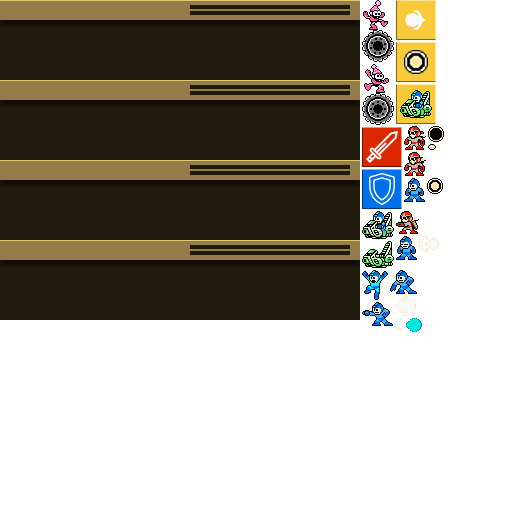
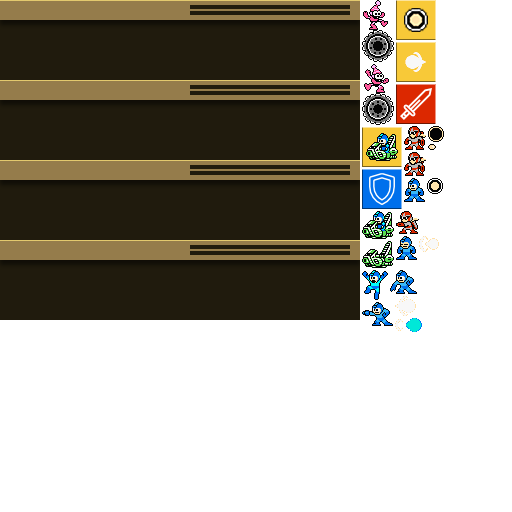
fix scale canvas

Changed region(s): [[0.6875, 0.0938, 0.875, 0.3438], [0.7812, 0.0, 0.8438, 0.0625]]

diff --git a/project_1254/project_1254.js b/project_1254/project_1254.js
@@ -3,7 +3,7 @@
 var p; // shortcut to reference prototypes
 var lib={};var ss={};var img={};
 lib.ssMetadata = [
-		{name:"project_1254_atlas_P_", frames: [[0,0,360,320],[362,64,32,61],[362,0,32,62],[362,127,40,40],[362,169,40,40],[362,211,32,28],[362,241,32,27],[428,144,8,6],[395,318,27,14],[419,236,20,16],[395,296,21,20],[427,178,16,16],[428,126,16,16],[362,270,26,30],[362,302,31,24],[396,0,40,40],[396,42,40,40],[396,84,40,40],[404,178,21,24],[396,236,21,24],[390,270,27,24],[396,211,23,23],[404,126,22,24],[404,152,22,24]]}
+		{name:"project_1254_atlas_P_", frames: [[0,0,360,320],[362,64,32,61],[362,0,32,62],[396,84,40,40],[362,169,40,40],[362,211,32,28],[362,241,32,27],[428,144,8,6],[395,318,27,14],[419,236,20,16],[395,296,21,20],[427,178,16,16],[428,126,16,16],[362,270,26,30],[362,302,31,24],[396,42,40,40],[396,0,40,40],[362,127,40,40],[404,178,21,24],[396,236,21,24],[390,270,27,24],[396,211,23,23],[404,126,22,24],[404,152,22,24]]}
 ];
 
 
@@ -1643,8 +1643,8 @@ lib.properties = {
 	color: "#CCCCCC",
 	opacity: 1.00,
 	manifest: [
-		{src:"images/bg01.jpg?1540744385041", id:"bg01"},
-		{src:"images/project_1254_atlas_P_.png?1540744384979", id:"project_1254_atlas_P_"}
+		{src:"images/bg01.jpg?1540744710687", id:"bg01"},
+		{src:"images/project_1254_atlas_P_.png?1540744710632", id:"project_1254_atlas_P_"}
 	],
 	preloads: []
 };

diff --git a/project_1254/project_1254.html b/project_1254/project_1254.html
@@ -22,7 +22,7 @@
   }
 </style>
 <script src="https://code.createjs.com/createjs-2015.11.26.min.js"></script>
-<script src="project_1254.js?1540744385064"></script>
+<script src="project_1254.js?1540744710710"></script>
 <script>
 var canvas, stage, exportRoot, anim_container, dom_overlay_container, fnStartAnimation;
 function init() {
@@ -94,7 +94,7 @@ function handleComplete(evt,comp) {
 			stage.tickOnUpdate = true;		
 		}
 	}
-	makeResponsive(true,'width',true,1);	
+	makeResponsive(false,'width',false,1);	
 	AdobeAn.compositionLoaded(lib.properties.id);
 	fnStartAnimation();
 }
